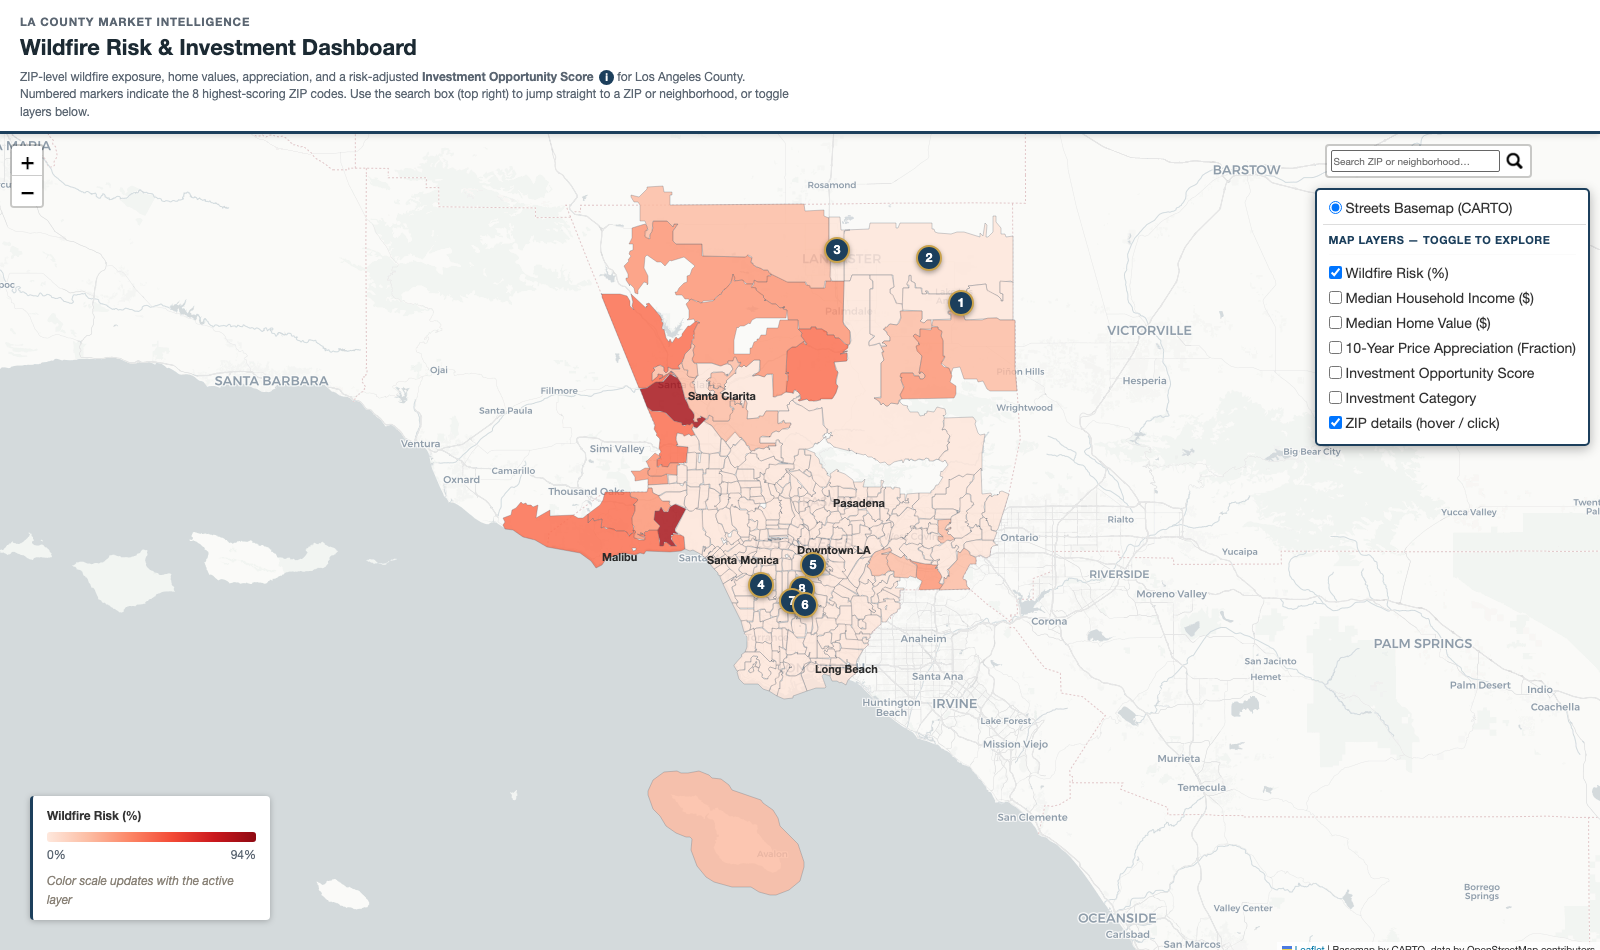
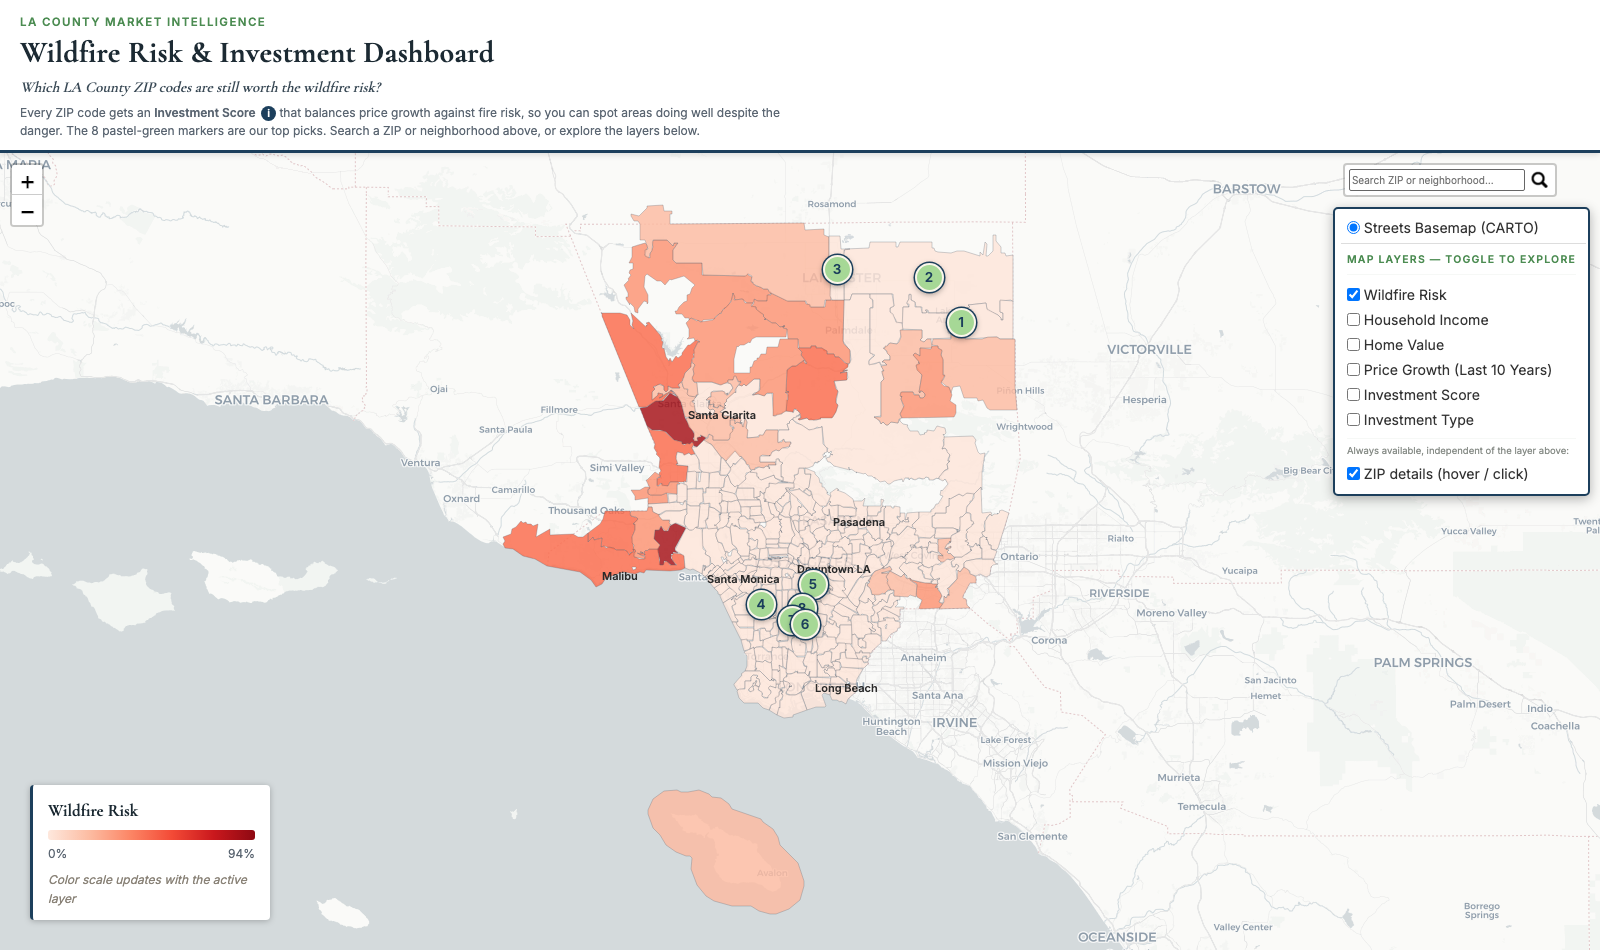
Refresh Phase 2 design change log to match the final dashboard
The change log was written after the first round of dashboard fixes and had
gone stale relative to everything since (plain-language rewrite, pastel
palette, typography pass, the narrative question, pin legibility fix).
Refreshed the after-screenshots and rewrote the 8-row table to tell the full
midterm-to-final arc: no investment framing -> Investment Score, editorial
hex-dot map -> Zillow-style choropleth, broken legend -> auto-updating
legend, technical jargon -> plain language, dark palette -> soft pastels,
static/hover-only -> search + click interactions, default fonts -> serif/
sans pairing, and no single narrative -> one explicit framing question.
Moved the pure engineering QA fixes (layer-switch race condition, mobile
overlap, pin numeral legibility) to a separate "also fixed" section so the
main table stays focused on the design story.

diff --git a/design_process/DESIGN_CHANGELOG.md b/design_process/DESIGN_CHANGELOG.md
@@ -1,50 +1,65 @@
 # Design Process & Change Log
 
-This documents how the LA Wildfire Risk & Investment dashboard changed between the midterm
-submission and the final version in [`LAFiresFinalProject.ipynb`](../LAFiresFinalProject.ipynb),
-and why each change was made. The "after" state also folds in fixes and additions driven directly
-by our own usability study (see [`usability_study_summary.md`](../usability_study_summary.md)).
+This documents how the LA Wildfire Risk & Investment dashboard changed from the midterm
+submission to the final version in [`LAFiresFinalProject.ipynb`](../LAFiresFinalProject.ipynb),
+and why each change was made. The final state also folds in fixes driven by our own usability
+study (see [`usability_study_summary.md`](../usability_study_summary.md)) and by auditing the
+finished dashboard against our own "is this actually readable and does the narrative work"
+checklist — a few of the rows below are bugs we found that way, not just style opinions.
 
-## Midterm snapshots, for reference
+## Midterm screenshots, for reference
 
-| Iteration 1 — static wildfire map | Iteration 2/3 — hex-dot Investment Explorer |
+| Iteration 1 — static wildfire map (no investment framing yet) | Iteration 2 — hex-dot Investment Explorer (midterm) |
 |---|---|
 | ![Iteration 1](before_iteration1_static_wildfire_map.png) | ![Iteration 2](before_investment_explorer_hexdot.png) |
 
-We also prototyped a third, visually distinct direction in Observable (a recovery-timeline focused
-layout, "Burning Value") that was not carried forward — the risk/appreciation/investment-score
-framing of the Investment Explorer tested better with our target users and became the basis for
-everything downstream:
+We also prototyped a third, visually distinct direction in Observable (a recovery-timeline
+focused layout, "Burning Value") that was not carried forward — the risk/appreciation/
+investment-score framing of the Investment Explorer tested better with our target users and
+became the basis for everything downstream:
 
 ![Abandoned Observable prototype](before_observable_burningvalue_prototype.png)
 
-## Final snapshot, for reference
+## Current visualization, for reference
 
 | Desktop | Mobile |
 |---|---|
 | ![Final dashboard, desktop](after_dashboard_desktop.png) | ![Final dashboard, mobile](after_dashboard_mobile.png) |
 
+Investment Type layer (pastel palette, described in row 5 below):
+
+![Final dashboard, Investment Type layer](after_dashboard_investment_type.png)
+
 ## Change log
 
 | # | Before | After | Why |
 |---|---|---|---|
-| 1 | Hex-dot texture map, editorial/data-journalism styling (bright cream/purple/orange/red palette) | Smooth ZIP-boundary choropleth with a muted navy/teal/burgundy/gray palette | Reads as a trustworthy market-intelligence tool rather than an infographic — closer to what Zillow/Redfin/a real estate firm's internal tool looks like, which is who several of our usability-study participants said they were evaluating it as (see Participants 3, 4, 8) |
-| 2 | The color legend was only ever correct for whichever layer happened to be the default (Wildfire Risk); switching to any of the other 4 metric layers left either no legend or a legend for the wrong metric (verified in our own midterm screenshots — see `before_income_layer_stale_legend.png`, where "Median Household Income" is toggled on but the legend still reads "Wildfire Risk (%)") | A single legend panel that re-renders to match whichever layer is actually active, for all 5 metrics plus the Investment Category swatches | This was a real, reproducible bug present since the midterm build, not just a cosmetic nice-to-have — a color scale that doesn't match what's on screen actively misleads a user rather than just being unhelpful |
-| 3 | The Investment Opportunity Score was explained in one dense paragraph in the header, which several usability testers read past without absorbing | A one-click ⓘ icon next to the term itself expands a short, plain-language explanation in place | Directly answers our usability study's #1 "Must Have" finding — multiple participants could see the score but not explain how it was derived (Participants 1 and 6 both asked "how exactly is this calculated?") |
-| 4 | Layer control was a default-sized, unlabeled checkbox list that participants sometimes scrolled past entirely | Enlarged, bordered, and explicitly labeled "MAP LAYERS — TOGGLE TO EXPLORE" | Addresses our usability study's #2 "Must Have" finding — Participant 1 needed ~20 seconds to find the Investment Category layer, and Participant 9 suggested improving legend/control visibility directly |
-| 5 | No way to jump to a specific ZIP or neighborhood; users had to visually scan the whole county | Added a ZIP/neighborhood search box (top right) that zooms to a match on either ZIP digits or city name | Addresses a "Should Have" finding — Participant 3 explicitly asked for a search bar ("A search bar would make navigation faster") |
-| 6 | Only the 8 numbered "Top Investment Picks" pins were clickable for details; the ZIP polygons themselves responded to hover only | ZIP polygons now support both hover (desktop) and click/tap popups with the same property-card detail as the pins | Addresses a "Should Have" finding — Participant 9 "attempted to click directly on ZIP code polygons before realizing only numbered markers were interactive" |
-| 7 | The layer-switching JavaScript reacted to Leaflet's internal `overlayadd`/`overlayremove` events, which fire once per individual ZIP polygon as well as once for the whole layer; reacting to them by mutating layers from inside their own handler could leave two metrics' fills on at once or silently revert a switch (confirmed by instrumenting the map and clicking through it — see testing notes below) | Rewritten to react to the layer-control checkbox's own click event, after Leaflet's own add/remove for that one checkbox has already completed, then deterministically enforcing "exactly one active layer" ourselves | Makes "toggle a layer" a reliable interaction instead of an occasionally-flaky one — directly serves the Phase 1 checklist question "does every interaction have a purpose (and actually work)?" |
-| 8 | The masthead's height was hardcoded (128px) for a desktop-width line wrap; on a narrow/mobile screen the description text wraps onto extra lines and the layer control rendered overlapping the masthead text | The map's top offset is now measured from the masthead's actual rendered height via JS (recalculated on resize), so the layout always stacks cleanly regardless of screen width | Found during mobile testing for this pass — the dashboard is meant to work for someone evaluating it on their phone, and an overlapping header/control was a hard blocker to reading either one |
+| 1 | Iteration 1 had no investment framing at all — just historical fire locations sized by acres burned, with no way to compare neighborhoods as opportunities | Added an **Investment Score** (price growth weighed against wildfire risk) and 8 ranked "Top Picks" markers | Stronger decision support — turns "here's where fires happened" into "here's where you should actually look first" |
+| 2 | Hex-dot texture map, bright editorial palette (cream/purple/orange/red) — reads like a data-journalism graphic | Smooth ZIP-boundary choropleth, closer to a Zillow/Redfin-style market map | More context and more trustworthy for the audience actually evaluating it — several usability testers described it in exactly those terms ("something Zillow or Redfin could build") |
+| 3 | Color legend was only ever correct for the default layer (Wildfire Risk); switching to any other metric left a stale or missing legend — confirmed as a real bug present since the midterm build, not something we introduced later (see `before_income_layer_stale_legend.png`: Household Income is checked, but the legend still reads "Wildfire Risk") | A single legend panel that re-renders to match whichever layer is actually active | Easier to interpret — a color scale that doesn't match what's on screen is worse than no legend, since it actively misleads instead of just being unhelpful |
+| 4 | Dense, technical copy throughout: "10-Year Price Appreciation (Fraction)," "Investment Opportunity Score," percentile-rank formula spelled out in the header | Plain-language labels ("Price Growth," "Investment Score") and a one-click ⓘ explainer using everyday language | Directly answers our usability study's #1 finding — testers could see the score but not explain how it was derived, and said the dashboard needed to work "without me explaining it" |
+| 5 | Dark, saturated "financial terminal" palette (navy/teal/burgundy/gray) for the Investment Category layer | Soft pastel palette (lavender/coral/sky-blue/sand) plus a matching pastel-green for the numbered pins | More approachable and friendlier on first impression, without losing legibility — verified the pastel pins still stay readable against every layer's colors, including the darkest ones |
+| 6 | No way to search for a specific ZIP; only the 8 numbered pins were clickable, ZIP polygons responded to hover only | Added a ZIP/neighborhood search box, made ZIP polygons clickable (not just the pins), and enlarged/labeled the layer control | Better exploration — testers specifically asked for a search bar and expected to be able to click directly on ZIP polygons |
+| 7 | Default system sans-serif (Helvetica Neue) throughout, same as any generic web page | A serif/sans pairing (Cormorant Garamond for headlines and legend titles, Inter for body copy and data) | Gives the dashboard a more polished, boutique real-estate feel instead of reading as a generic corporate report |
+| 8 | Dashboard presented six togglable layers with no framing — left it to the user to figure out what question they were supposed to be answering | Masthead now opens with one explicit question ("Which LA County ZIP codes are still worth the wildfire risk?") that every layer exists to help answer | Gives the visualization a single clear narrative instead of open-ended, undirected exploration |
 
-## How row 2 and row 7 were verified (not just asserted)
+## Also fixed along the way (QA, not style)
 
-- **Row 2** (stale legend): confirmed against our own midterm slide deck — `before_income_layer_stale_legend.png`
-  is a screenshot we took at midterm time with "Median Household Income" checked, and the legend in
-  that screenshot still reads "Wildfire Risk (%)". The bug was real and present from the start, not
-  introduced later.
-- **Row 7** (layer-switch reliability): reproduced by instrumenting the live map in a browser console —
-  logging every `layeradd`/`layerremove`/`overlayadd`/`overlayremove` event showed a single checkbox
-  click could trigger two full add/remove cycles that sometimes net out to *no visible change at all*
-  (the newly-checked layer never actually rendered). Switched to a checkbox-click-driven approach and
-  re-verified with the same instrumentation that exactly one layer is ever active after a click.
+A few issues surfaced only by testing the live map rather than reading the code, worth noting
+since they were genuine bugs rather than opinions:
+
+- **Layer-switch reliability**: the original exclusivity logic reacted to Leaflet's internal
+  `overlayadd`/`overlayremove` events, which — confirmed by instrumenting the map in a browser
+  console — could fire twice per click and occasionally leave a checkbox toggle with *no visible
+  change at all*. Rewritten to react to the checkbox's own click event instead, and re-verified
+  that exactly one layer is ever active after any click.
+- **Mobile layout**: the masthead's height was hardcoded for desktop line-wrapping, so on a
+  narrow screen the wrapped text overlapped the layer control. Fixed by measuring the masthead's
+  actual rendered height in JS instead of assuming a fixed pixel value.
+- **Pin numeral legibility**: zoomed into the numbered pins and found a bare "1" in the display
+  serif font rendered as a plain vertical stroke, easily misread as a capital "I." The pin
+  numerals now use a sans-serif face chosen for unambiguous digit shapes; the popup's "#1" was
+  left as-is since the "#" already disambiguates it there.
+- **Layer-control clarity**: the "ZIP details" toggle sits in the same checkbox list as the six
+  mutually-exclusive metric/category layers but behaves differently (it's always on, independent
+  of whichever layer is picked). Added a one-line caption so that isn't left to trial and error.
